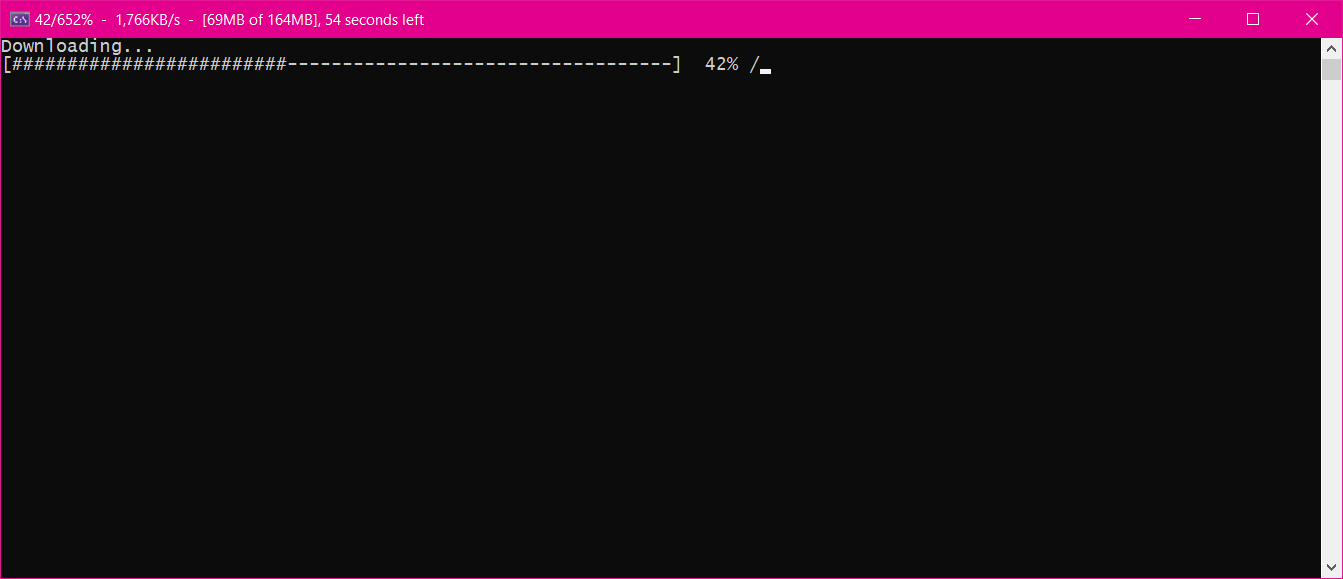
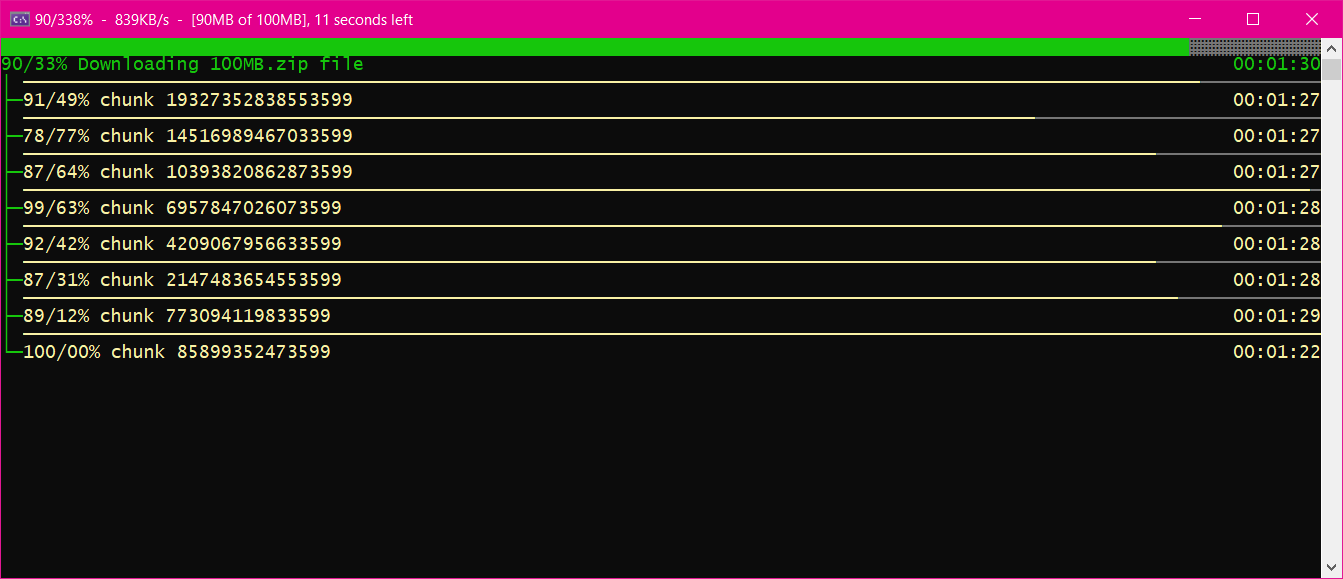
Fixed request header user-agent to solve forbidden(403) error from some servers

Changed region(s): [[0.0, 0.0, 1.0, 0.6218]]

diff --git a/src/Downloader/DownloadService.cs b/src/Downloader/DownloadService.cs
@@ -37,10 +37,12 @@ namespace Downloader
         /// Is in downloading time
         /// </summary>
         public bool IsBusy { get; protected set; }
+        public string MainProgressName { get; } = "Main";
         public long DownloadSpeed { get; set; }
         public DownloadPackage Package { get; set; }
         public EventHandler<AsyncCompletedEventArgs> DownloadFileCompleted;
         public EventHandler<DownloadProgressChangedEventArgs> DownloadProgressChanged;
+        public EventHandler<DownloadProgressChangedEventArgs> ChunkDownloadProgressChanged;
 
         public async Task DownloadFileTaskAsync(DownloadPackage package)
         {
@@ -100,17 +102,26 @@ namespace Downloader
             Package.Chunks = null;
         }
 
+        protected HttpWebRequest GetRequest(string method, Uri address)
+        {
+            var request = (HttpWebRequest)WebRequest.Create(address);
+            request.Timeout = -1;
+            request.Accept = @"text/html, application/xhtml+xml, */*";
+            request.Method = method;
+            request.UserAgent = @"Downloader";
+            request.UseDefaultCredentials = true;
+            request.Proxy.Credentials = CredentialCache.DefaultCredentials;
+
+            return request;
+        }
         protected long GetFileSize(Uri address)
         {
-            var webRequest = WebRequest.Create(address);
-            webRequest.Method = "HEAD";
-            using (var webResponse = webRequest.GetResponse())
+            var request = GetRequest("HEAD", address);
+            using (var response = request.GetResponse())
             {
-                if (long.TryParse(webResponse.Headers.Get("Content-Length"), out var respLength))
-                    return respLength;
+                // if (long.TryParse(webResponse.Headers.Get("Content-Length"), out var respLength))
+                return response.ContentLength;
             }
-
-            return 0;
         }
         protected Chunk[] ChunkFile(long fileSize, int parts)
         {
@@ -178,31 +189,27 @@ namespace Downloader
         {
             try
             {
-                if (WebRequest.Create(address) is HttpWebRequest req)
-                {
-                    req.Method = "GET";
-                    req.Timeout = int.MaxValue;
-                    req.AddRange(chunk.Start + chunk.Position, chunk.End);
+                var request = GetRequest("GET", address);
+                request.AddRange(chunk.Start + chunk.Position, chunk.End);
 
-                    using (var httpWebResponse = req.GetResponse() as HttpWebResponse)
+                using (var httpWebResponse = request.GetResponse() as HttpWebResponse)
+                {
+                    if (httpWebResponse == null)
+                        return chunk;
+
+                    var stream = httpWebResponse.GetResponseStream();
+                    using (stream)
                     {
-                        if (httpWebResponse == null)
+                        if (stream == null)
                             return chunk;
 
-                        var stream = httpWebResponse.GetResponseStream();
-                        using (stream)
-                        {
-                            if (stream == null)
-                                return chunk;
-
-                            if (Package.Options.OnTheFlyDownload)
-                                await ReadStreamOnTheFly(stream, chunk, token);
-                            else
-                                await ReadStreamOnTheFile(stream, chunk, token);
-                        }
-
-                        return chunk;
+                        if (Package.Options.OnTheFlyDownload)
+                            await ReadStreamOnTheFly(stream, chunk, token);
+                        else
+                            await ReadStreamOnTheFile(stream, chunk, token);
                     }
+
+                    return chunk;
                 }
             }
             catch (TaskCanceledException) // when stream reader timeout occured 
@@ -259,7 +266,8 @@ namespace Downloader
                     chunk.Position += readSize;
                     bytesToReceiveCount = chunk.Length - chunk.Position;
 
-                    OnDownloadProgressChanged(new DownloadProgressChangedEventArgs(Package.TotalFileSize, Package.BytesReceived, DownloadSpeed));
+                    OnChunkDownloadProgressChanged(new DownloadProgressChangedEventArgs(chunk.Id.ToString(), chunk.Length, chunk.Position, DownloadSpeed));
+                    OnDownloadProgressChanged(new DownloadProgressChangedEventArgs(MainProgressName, Package.TotalFileSize, Package.BytesReceived, DownloadSpeed));
                 }
             }
         }
@@ -288,7 +296,8 @@ namespace Downloader
                         chunk.Position += readSize;
                         bytesToReceiveCount = chunk.Length - chunk.Position;
 
-                        OnDownloadProgressChanged(new DownloadProgressChangedEventArgs(Package.TotalFileSize, Package.BytesReceived, DownloadSpeed));
+                        OnChunkDownloadProgressChanged(new DownloadProgressChangedEventArgs(chunk.Id.ToString(), chunk.Length, chunk.Position, DownloadSpeed));
+                        OnDownloadProgressChanged(new DownloadProgressChangedEventArgs(MainProgressName, Package.TotalFileSize, Package.BytesReceived, DownloadSpeed));
                     }
                 }
             }
@@ -330,7 +339,7 @@ namespace Downloader
                 GC.Collect();
             }
         }
-        
+
         protected virtual void OnDownloadFileCompleted(AsyncCompletedEventArgs e)
         {
             IsBusy = false;
@@ -340,6 +349,10 @@ namespace Downloader
         {
             OnDownloadSpeedCalculator();
             DownloadProgressChanged?.Invoke(this, e);
+        }
+        protected virtual void OnChunkDownloadProgressChanged(DownloadProgressChangedEventArgs e)
+        {
+            ChunkDownloadProgressChanged?.Invoke(this, e);
         }
         protected virtual void OnDownloadSpeedCalculator()
         {

diff --git a/src/Downloader.Sample/Program.cs b/src/Downloader.Sample/Program.cs
@@ -1,53 +1,60 @@
-using System;
+using ShellProgressBar;
+using System;
+using System.Collections.Concurrent;
 using System.ComponentModel;
 using System.IO;
 using System.Threading.Tasks;
-using ShellProgressBar;
 
 namespace Downloader.Sample
 {
     class Program
     {
         private static ProgressBar ConsoleProgress { get; set; }
+        private static ConcurrentDictionary<string, ChildProgressBar> ChildConsoleProgresses { get; set; }
+        private static ProgressBarOptions ChildOption { get; set; }
 
         static void Main(string[] args)
         {
+            var chunkCount = 8;
+            var filename = "100MB.zip";
+            var file = Path.Combine(Path.GetTempPath(), filename);
             var options = new ProgressBarOptions
             {
-                ForegroundColor = ConsoleColor.Yellow,
+                ForegroundColor = ConsoleColor.Green,
                 ForegroundColorDone = ConsoleColor.DarkGreen,
                 BackgroundColor = ConsoleColor.DarkGray,
                 BackgroundCharacter = '\u2593'
             };
-            var childOptions = new ProgressBarOptions
+            ChildOption = new ProgressBarOptions
             {
-                ForegroundColor = ConsoleColor.Green,
-                BackgroundColor = ConsoleColor.DarkGreen,
+                ForegroundColor = ConsoleColor.Yellow,
+                BackgroundColor = ConsoleColor.DarkGray,
                 ProgressCharacter = '─'
             };
-            ConsoleProgress = new ProgressBar(10000, "Downloading 10MB.zip file", options);
+            ConsoleProgress = new ProgressBar(10000, $"Downloading {filename} file", options);
+            ChildConsoleProgresses = new ConcurrentDictionary<string, ChildProgressBar>();
 
             var downloadOpt = new DownloadConfiguration()
             {
                 ParallelDownload = true, // download parts of file as parallel or not
                 BufferBlockSize = 10240, // usually, hosts support max to 8000 bytes
-                ChunkCount = 8, // file parts to download
+                ChunkCount = chunkCount, // file parts to download
                 MaxTryAgainOnFailover = int.MaxValue, // the maximum number of times to fail.
                 OnTheFlyDownload = true, // caching in-memory mode
                 Timeout = 1000 // timeout (millisecond) per stream block reader
             };
             var ds = new DownloadService(downloadOpt);
+            ds.ChunkDownloadProgressChanged += OnChunkDownloadProgressChanged;
             ds.DownloadProgressChanged += OnDownloadProgressChanged;
             ds.DownloadFileCompleted += OnDownloadFileCompleted;
-            var file = Path.Combine(Path.GetTempPath(), "zip_10MB.zip");
-            ds.DownloadFileAsync("https://file-examples.com/wp-content/uploads/2017/02/zip_10MB.zip", file);
+            ds.DownloadFileAsync(@"http://ipv4.download.thinkbroadband.com/100MB.zip", file);
             Console.WriteLine();
             Console.ReadKey();
         }
 
         private static async void OnDownloadFileCompleted(object sender, AsyncCompletedEventArgs e)
         {
-            ConsoleProgress.Tick();
+            ConsoleProgress.Tick(10000);
             await Task.Delay(1000);
             Console.WriteLine();
             Console.WriteLine();
@@ -67,6 +74,11 @@ namespace Downloader.Sample
             }
         }
 
+        private static void OnChunkDownloadProgressChanged(object sender, DownloadProgressChangedEventArgs e)
+        {
+            var progress = ChildConsoleProgresses.GetOrAdd(e.ProgressId, id => ConsoleProgress.Spawn(10000, $"chunk {id}", ChildOption));
+            progress.Tick((int)(e.ProgressPercentage * 100));
+        }
         private static void OnDownloadProgressChanged(object sender, DownloadProgressChangedEventArgs e)
         {
             var nonZeroSpeed = e.BytesPerSecondSpeed == 0 ? 0.0001 : e.BytesPerSecondSpeed;
@@ -83,7 +95,7 @@ namespace Downloader.Sample
                             $"[{CalcMemoryMensurableUnit(e.BytesReceived)} of {CalcMemoryMensurableUnit(e.TotalBytesToReceive)}], {estimateTime} {timeLeftUnit} left";
             ConsoleProgress.Tick((int)(e.ProgressPercentage * 100));
         }
-
+        
         public static string CalcMemoryMensurableUnit(long bigUnSignedNumber, bool isShort = true)
         {
             var kb = bigUnSignedNumber / 1024; // · 1024 Bytes = 1 Kilobyte 

diff --git a/src/Downloader/DownloadProgressChangedEventArgs.cs b/src/Downloader/DownloadProgressChangedEventArgs.cs
@@ -6,13 +6,19 @@
     /// </summary>
     public class DownloadProgressChangedEventArgs
     {
-        public DownloadProgressChangedEventArgs(long totalBytesToReceive, long bytesReceived, long bytesPerSecond)
+        public DownloadProgressChangedEventArgs(string id, long totalBytesToReceive, long bytesReceived, long bytesPerSecond)
         {
+            ProgressId = id;
             TotalBytesToReceive = totalBytesToReceive;
             BytesReceived = bytesReceived;
             ProgressPercentage = (double)bytesReceived * 100 / totalBytesToReceive;
             BytesPerSecondSpeed = bytesPerSecond;
         }
+
+        /// <summary>
+        /// Progress unique identity
+        /// </summary>
+        public string ProgressId { get; }
 
         /// <summary>
         /// Gets the asynchronous task progress percentage.
